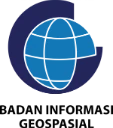
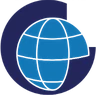
fix(landing): source cards without shadows, one emblem size, aligned text
- The cards are plain bordered panels: in the clipped, gliding row their
  shadows smeared into a grey band between the cards.
- Each agency shows its emblem alone (the wordmark under four of them
  dropped; the name is written beside it), in the same 44px square, so
  all six read at one size.
- The card head is one height on every card, logo and names at its top,
  so the short names, full names, descriptions and statuses line up
  across the row.

diff --git a/src/features/landing/sections/SourcesSection.tsx b/src/features/landing/sections/SourcesSection.tsx
@@ -5,7 +5,6 @@ import bnpbLogo from '@/assets/sources/bnpb.webp';
 import bpsLogo from '@/assets/sources/bps.webp';
 import kemendikdasmenLogo from '@/assets/sources/kemendikdasmen.webp';
 import kemenkesLogo from '@/assets/sources/kemenkes.webp';
-import { Surface } from '@/components/ui/Surface/Surface';
 import { Reveal } from '@/features/motion';
 import styles from './SourcesSection.module.css';
 import { localized, t } from '@/lib/i18n';
@@ -14,7 +13,9 @@ import { localized, t } from '@/lib/i18n';
  * Figma 41:406. The agencies whose data the Data Hub ingests, from its LIVE dataset list
  * (`GET /api/v1/datasets`, read 2026-11-10: 24 datasets from BPS, BNPB, Kemenkes, Kemendikdasmen,
  * BIG and BMKG, plus the hub's own ingestion audit). Each line names what is actually used. Logos
- * are the agencies' public-domain marks from Wikimedia Commons, shown only to identify the source.
+ * are the agencies' public-domain marks from Wikimedia Commons, shown only to identify the source:
+ * the emblem alone (the wordmark under some of them dropped, the name is written beside it), square,
+ * so all six read at one size.
  */
 const SOURCES = localized(
   () =>
@@ -62,10 +63,11 @@ type Source = ReturnType<typeof SOURCES>[number];
 
 function SourceCard({ source, hidden = false }: { readonly source: Source; readonly hidden?: boolean }) {
   return (
-    <Surface as="article" radius="source" className={styles.card} aria-hidden={hidden || undefined}>
+    // A plain bordered card, no shadow: in a clipped, gliding row shadows smear between the cards.
+    <article className={styles.card} aria-hidden={hidden || undefined}>
       <span className={styles.head}>
         {/* Not lazy: in the gliding row a lazy logo would pop in as its card comes round again. */}
-        <img className={styles.logo} src={source.logo} alt="" width={40} height={40} decoding="async" />
+        <img className={styles.logo} src={source.logo} alt="" width={44} height={44} decoding="async" />
         <span className={styles.names}>
           <span className={`kk-body-strong ${styles.short}`}>{source.short}</span>
           <h3 className={`kk-caption ${styles.name}`}>{source.name}</h3>
@@ -73,7 +75,7 @@ function SourceCard({ source, hidden = false }: { readonly source: Source; reado
       </span>
       <p className={`kk-small ${styles.description}`}>{source.description}</p>
       <p className={`kk-caption ${styles.status}`}>{t('Terhubung lewat Data Hub')}</p>
-    </Surface>
+    </article>
   );
 }
 

diff --git a/src/features/landing/sections/SourcesSection.module.css b/src/features/landing/sections/SourcesSection.module.css
@@ -75,42 +75,60 @@
   width: 280px;
 }
 
-/* Source card 41:409: padding 22px, gap 8px, radius 20px; the agency's mark leads. */
+/*
+ * Source card 41:409: padding 22px, radius 20px; the agency's emblem leads. A border, no shadow: in a
+ * clipped, gliding row shadows smear into the gaps between cards.
+ */
 .card {
   display: flex;
   flex: 1;
   flex-direction: column;
   gap: 10px;
   padding: 20px 22px;
+  border: 1px solid var(--c-card-border);
+  border-radius: 20px;
+  background: var(--c-card);
 }
 
+/*
+ * The head is one height on every card (room for a name on two lines), with logo and names at its top,
+ * so the short names, the full names and the descriptions line up across the row.
+ */
 .head {
   display: flex;
   gap: 12px;
-  align-items: center;
+  align-items: flex-start;
+  min-height: 62px;
 }
 
+/* Every emblem in the same 44px square (the files are square, emblem only). */
 .logo {
   flex: none;
-  width: 40px;
+  width: 44px;
   max-width: none;
-  height: 40px;
+  height: 44px;
   object-fit: contain;
 }
 
 .names {
   display: flex;
   flex-direction: column;
+  gap: 2px;
   min-width: 0;
 }
 
 .short {
-  line-height: 1.2;
+  line-height: 1.25;
 }
 
 .name {
+  display: -webkit-box;
+  overflow: hidden;
   color: var(--c-text-muted);
   font-weight: 500;
+  line-height: 1.35;
+  -webkit-box-orient: vertical;
+  -webkit-line-clamp: 2;
 }
 
 .description {
